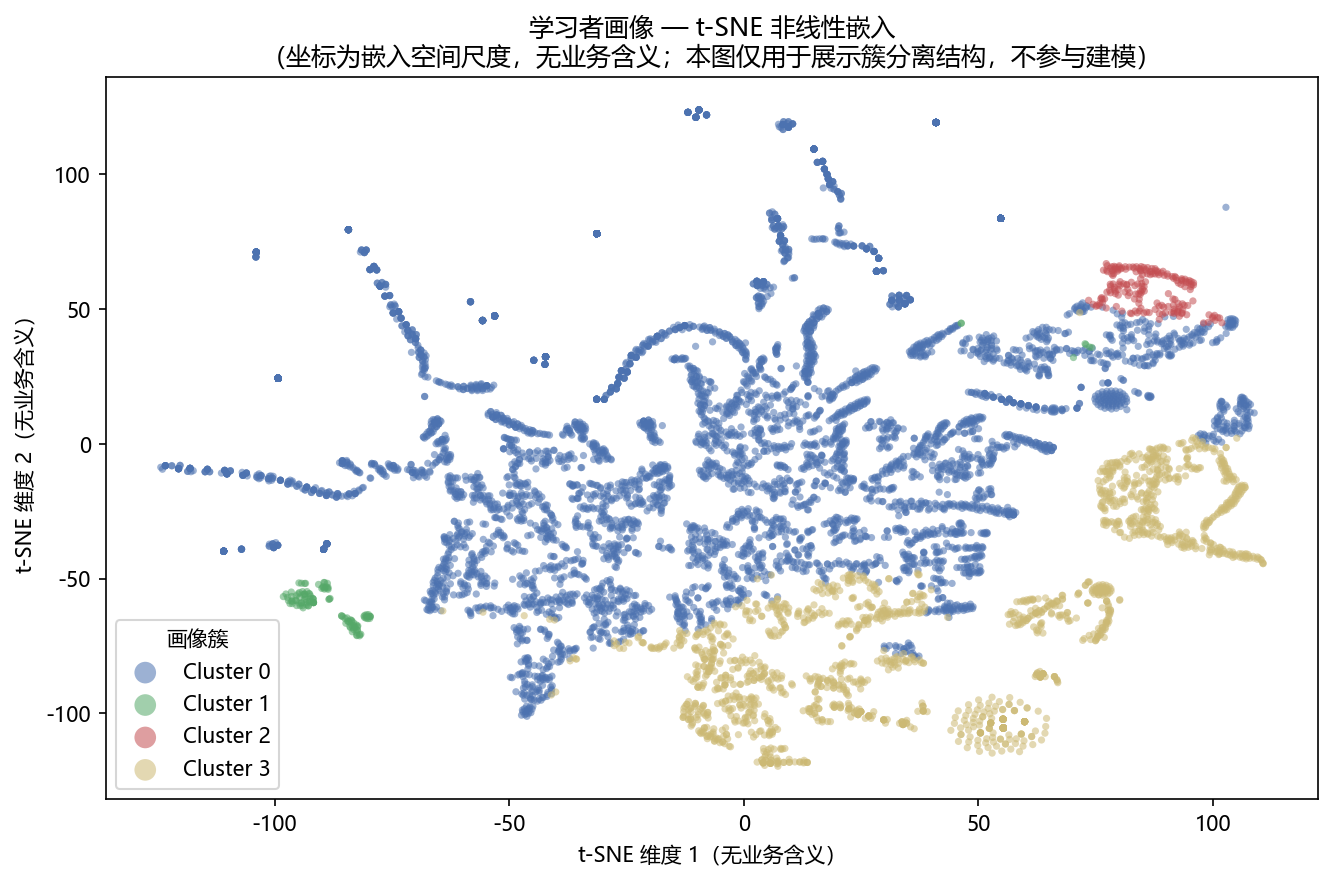
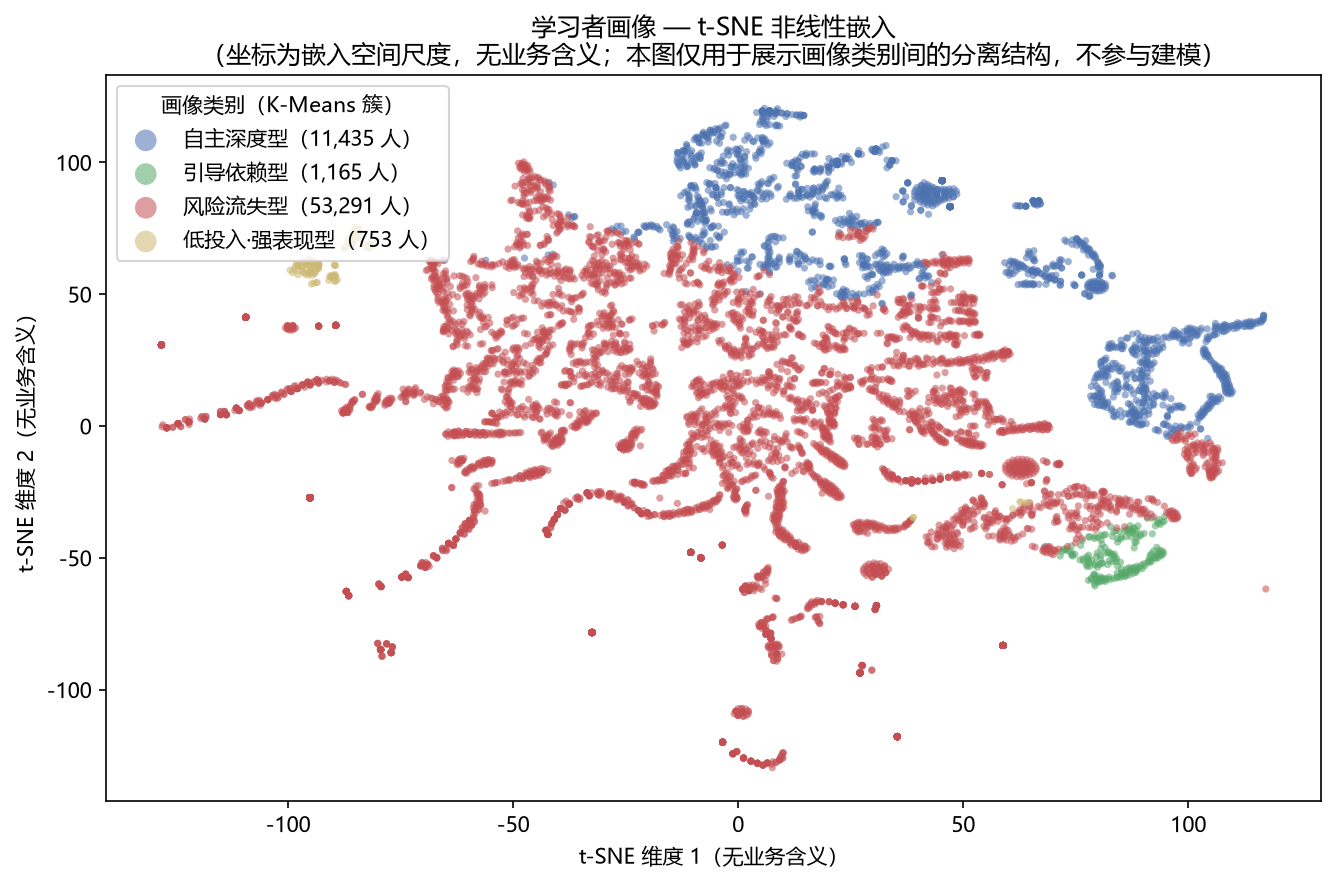
画像可视化图例改用语义名并同步运行结果：`cluster_personas` 中 `label_personas` 提前到绘图前，PCA/雷达/热力图统一使用“画像名（人数）”图例与标题，metrics 移除下游预测字段并新增 CPU 后端结果，刷新看板 JSON 与 up_ 产物

diff --git a/选题7_最终交付/05_图表与看板/dashboard.html b/选题7_最终交付/05_图表与看板/dashboard.html
@@ -203,7 +203,7 @@ footer{border-top:1px solid var(--line);margin-top:44px;padding:22px 0 40px;font
   算法与数据来源逐图解读见 <a href="conclusion.md"><code>conclusion.md</code></a>。
 </div></footer>
 
-<script id="data" type="application/json">{"overview":{"n":66644,"sources":{"real:harvardx_mitx_person_course":50000,"real:thu_shortvideo":6654,"real:edudata_assistments_2009":4217,"real:oulad":4014,"real:uci_student_performance":1044,"real:tianchi_mooc_2024_2025":715},"k":4,"sil":0.5519890189170837,"backend":"torch"},"personas":[{"name":"风险流失型","en":"At-Risk / Disengaged","n":53281,"share":79.9,"desc":"点击与活跃天数极低、得分差、几乎无互动，流失风险高。","reco":"短微内容单元、游戏化激励、主动推送通知、导师早期介入。"},{"name":"自主深度型","en":"Independent Deep Learner","n":11445,"share":17.2,"desc":"高投入、深度探索内容、测验得分高、极少求助。","reco":"研究性阅读材料、开放性项目、同伴讨论论坛、挑战级测评。"},{"name":"引导依赖型","en":"Guided Learner","n":1165,"share":1.7,"desc":"中等投入、偏好视频、频繁求助、依赖结构化指导。","reco":"分步视频教程、例题演示、即时反馈测验、脚手架式学习路径。"},{"name":"低投入·强表现型","en":"","n":753,"share":1.1,"desc":"投入很低但成绩不错——高效学习型或策略性取用内容。","reco":"挑战性拓展任务、竞赛与项目制内容，维持学习动机。"}],"tier_lift":"完成率 +50.0%, 成绩 +23.7 分","corr_top":[{"label":"active_days","r":0.715},{"label":"avg_quiz_score","r":0.711},{"label":"total_clicks","r":0.537},{"label":"resource_clicks","r":0.35},{"label":"forum_posts","r":0.313}],"time_patterns":{"常规型学习":4439,"夜间型学习":3517,"集中式周末学习":3309,"碎片化高频学习":92},"tod":[{"group":"晚间 (18-21)","users":2171,"share":0.3263},{"group":"下午 (12-17)","users":2145,"share":0.3224},{"group":"上午 (6-11)","users":1460,"share":0.2194},{"group":"深夜 (22-23)","users":629,"share":0.0945},{"group":"凌晨 (0-5)","users":249,"share":0.0374}],"cats":[{"name":"影视和短剧","share":50.0},{"name":"搞笑","share":8.2},{"name":"美食","share":4.6},{"name":"游戏","share":3.7},{"name":"生活","share":3.7},{"name":"二次元","share":2.9},{"name":"明星娱乐","share":2.7},{"name":"亲子","share":2.3}],"itypes":[{"name":"知识求知型","share":6.7},{"name":"均衡杂食型","share":63.3},{"name":"娱乐休闲型","share":30.0}],"city":[{"name":"一线城市","share":4.4,"finish":45.9},{"name":"新一线城市","share":11.0,"finish":45.0},{"name":"二线城市","share":14.9,"finish":48.5},{"name":"三线城市","share":23.3,"finish":48.0},{"name":"四线城市","share":23.9,"finish":47.4},{"name":"五线城市","share":22.4,"finish":46.0}],"sv_users":6654,"sv_cities":365,"lsa_patterns":{"刷课":6298,"正常":4830,"跳步学习":229},"lsa_top":[{"transition":"video→video","z":427.68},{"transition":"resource→video","z":-283.1},{"transition":"video→resource","z":-281.02},{"transition":"resource→resource","z":238.44},{"transition":"video→forum","z":-226.5}],"apriori_top":[{"antecedent":"论坛互动、读资源","consequent":"OULAD 课程资源","support":0.319,"confidence":0.988,"lift":2.8},{"antecedent":"OULAD 课程资源、论坛互动","consequent":"读资源","support":0.319,"confidence":0.998,"lift":2.75},{"antecedent":"OULAD 课程资源","consequent":"读资源","support":0.352,"confidence":0.998,"lift":2.74}],"short_only_pct":58.5,"sna_top":["S542811","S703721","S703737","S542864","S542807"],"cert_acc":0.9549364809442833,"best_model":"GradientBoosting","auc_early":0.8824341954613409,"auc_full":0.9778754049709877,"top5_features":{"active_days":0.429,"avg_quiz_score":0.229,"forum_posts":0.213,"quiz_attempts":0.032,"resource_clicks":0.027},"gm_trends":{"平稳":9911,"下降":1400,"上升":46},"quality_levels":{"差":56693,"良":5325,"中":4235,"优":391},"quality_mean":45.5,"ahp_weights":{"学习行为":0.32,"学习效果":0.558,"互动参与":0.122},"ahp_cr":0.016,"sd_results":{"基线策略":{"final_engagement":0.008,"growth_pct":-97.4},"加强资源供给":{"final_engagement":1.0,"growth_pct":233.3},"加强平台激励":{"final_engagement":0.226,"growth_pct":-24.7},"综合优化策略":{"final_engagement":1.0,"growth_pct":233.3}},"sd_best":"加强资源供给","queues":[{"name":"持续观察","n":45292},{"name":"拓展培养","n":11980},{"name":"教师复核","n":6468},{"name":"重点支持","n":2904}],"suggestions":{"画像差异化运营":[{"target":"低投入·强表现型","advice":"挑战性拓展任务、竞赛与项目制内容，维持学习动机。"},{"target":"引导依赖型","advice":"微课 + 即时反馈测验组合推送，逐步过渡到自主学习"},{"target":"自主深度型","advice":"开放项目与进阶资源优先推送，邀请担任社区助教"},{"target":"风险流失型","advice":"推送轻量化短视频学习内容 + 每日微任务签到，提升留存率"}],"分区域运营优化":[{"target":"North Western Region（完成率 45.6%）","advice":"联合本地高校共建本地化课程内容，增设线下学习中心与带宽/终端支持，补齐薄弱地区资源供给短板"},{"target":"农村（完成率 50.0%）","advice":"联合本地高校共建本地化课程内容，增设线下学习中心与带宽/终端支持，补齐薄弱地区资源供给短板"}],"早期学业预警":[{"target":"0 名高风险学生（结课概率<0.2）","advice":"当学生连续 7 天未登录、视频完播率骤降、作业逾期时自动触发预警，辅导员 48 小时内一对一介入；预警名单见 up_early_warning_students.csv"}],"场景化资源优化":[{"target":"慕课长视频（拖拽 nan 次）","advice":"长视频拆分为 8-12 分钟微模块，前置学习目标提示，高拖拽片段重新剪辑压缩"},{"target":"短视频（完播率 35%）","advice":"在短视频中增加知识点锚点与章节跳转卡片，配套 1 分钟随堂小测，提升碎片化学习的知识留存率"}],"平台长期策略（SD 仿真）":[{"target":"加强资源供给","advice":"仿真显示 52 周后「加强资源供给」下学习者整体投入水平最高（1.0），建议以资源供给 + 激励机制双轮驱动并降低学习疲劳衰减"}]},"fig_prefix":"figures/","figs":{"0":[{"f":"fig00_architecture.png","t":"总体方法架构 · 数据到建模链全景","c":"数据层（真实公开数据源+事件流）→ 统一特征层（14 维行为特征，66,644 人）→ 建模层七环节（聚类画像→行为挖掘→相关分层→预测预警→统一评价→策略仿真→决策建议）→ 输出层（报告/19 张证据图/三个看板）。全链固定随机种子可复现，沙箱试验不污染正式结果；每个环节的方法与产物文件在图中逐一标注，与本看板各屏一一对应。"}],"1":[{"f":"up_elbow_silhouette.png","t":"环节证据 · K 选择（肘部+轮廓双准则）","c":"在 K=2–8 候选中自动选定 K=4：轮廓系数 0.552、肘部拐点 K=4，两准则一致——聚类数由数据决定而非人为指定。"},{"f":"up_pca_clusters.png","t":"环节证据 · PCA 二维聚类投影","c":"主成分平面上画像簇边界清晰、簇间距离远大于簇内距离——分群结构真实存在。"},{"f":"up_tsne_clusters.png","t":"环节证据 · t-SNE 非线性嵌入","c":"非线性降维同样呈现紧凑分簇：分组结论对降维方法稳健。"},{"f":"up_umap_clusters.png","t":"环节证据 · UMAP 降维投影","c":"第三种降维方法复现相同结构，三种视角交叉验证聚类可靠性。"},{"f":"up_radar_personas.png","t":"环节证据 · 画像行为中心雷达","c":"各画像行为中心差异集中在投入维度（点击/活跃/互动）——4 类画像由行为塑造，而非人口标签。"},{"f":"up_heatmap_features.png","t":"环节证据 · 聚类 × 行为特征热力图","c":"逐特征比对各类行为中心（Z 分数标注各簇显著偏高/偏低的行为），命名依据即此差异。"}],"2":[{"f":"up_correlation_top_factors.png","t":"环节证据 · 行为 × 成绩相关排序","c":"与成绩关联最强的行为是“活跃天数”（r=0.715，显著）——该项行为的持续积累比单次爆发更能解释成绩差异。"},{"f":"up_engagement_tiers.png","t":"环节证据 · 投入分层增益","c":"高投入组相对低投入组：完成率 +50.0%, 成绩 +23.7 分——投入分层的增益可量化，是干预优先级的直接依据。"},{"f":"up_demographics_cross.png","t":"环节证据 · 人口属性 × 行为交叉","c":"不同性别/年龄/学历群体的行为差异存在但幅度有限——行为特征比背景属性更能预测结果。"},{"f":"up_rf_feature_importance.png","t":"环节证据 · 随机森林特征重要性","c":"模型最依赖“活跃天数”——与相关分析两套独立方法得出同一结论，相互印证。"}],"3":[{"f":"up_temporal_patterns.png","t":"环节证据 · 登录节律分型分布","c":"学习者自动归为 4 类节律，最多为“常规型学习”（4439 人）——推送与直播时段设计应贴合节律分布。"}],"4":[{"f":"up_lsa_transition_graph.png","t":"环节证据 · LSA 行为模式转移图","c":"逐人行为序列归为三型：刷课 6298 人 / 正常 4830 人 / 跳步学习 229 人——其中“刷课”型最多，需要完整学习路径引导而非放任刷量。"},{"f":"up_sna_network.png","t":"环节证据 · SNA 资源共现网络","c":"少数资源承载多数访问（Top：S542811、S703721、S703737…）——核心资源应优先保障可用性与加载速度。"},{"f":"up_apriori_rules.png","t":"环节证据 · Apriori 关联规则","c":"最强规则「论坛互动、读资源 → OULAD 课程资源」（置信度 0.988，提升度 2.8）——规则的先后关系可直接设计成资源引导推荐。"},{"f":"up_scene_comparison.png","t":"环节证据 · 慕课/短视频场景对比","c":"完播率慕课长视频 0.39 vs 短视频 0.348，倍速使用率差异显著——两种内容场景的交互设计需差异化。"}],"5":[{"f":"up_model_feature_importance.png","t":"环节证据 · 预测特征重要性 Top10","c":"仅用前 4 周行为即可预警：早期 AUC 88.2%、全量 AUC 97.8%；“活跃天数”是最关键的早期信号——第 4 周就应触发干预。"}],"6":[{"f":"up_quality_score_distribution.png","t":"环节证据 · 学习质量评分分布","c":"全体质量分均值 45.5/100——均值受少数高分个体拉动，干预应聚焦长尾低分群体而非均值本身。"},{"f":"up_sd_simulation.png","t":"环节证据 · 系统动力学（SD）策略仿真","c":"52 周策略仿真：最优策略「加强资源供给」最终参与度增幅 +233.3%——供给型策略具复利效应，激励型策略长期衰减。"}]}}</script>
+<script id="data" type="application/json">{"overview":{"n":66644,"sources":{"real:harvardx_mitx_person_course":50000,"real:thu_shortvideo":6654,"real:edudata_assistments_2009":4217,"real:oulad":4014,"real:uci_student_performance":1044,"real:tianchi_mooc_2024_2025":715},"k":4,"sil":0.5520854035019229,"backend":"cpu"},"personas":[{"name":"风险流失型","en":"At-Risk / Disengaged","n":53281,"share":79.9,"desc":"点击与活跃天数极低、得分差、几乎无互动，流失风险高。","reco":"短微内容单元、游戏化激励、主动推送通知、导师早期介入。"},{"name":"自主深度型","en":"Independent Deep Learner","n":11445,"share":17.2,"desc":"高投入、深度探索内容、测验得分高、极少求助。","reco":"研究性阅读材料、开放性项目、同伴讨论论坛、挑战级测评。"},{"name":"引导依赖型","en":"Guided Learner","n":1165,"share":1.7,"desc":"中等投入、偏好视频、频繁求助、依赖结构化指导。","reco":"分步视频教程、例题演示、即时反馈测验、脚手架式学习路径。"},{"name":"低投入·强表现型","en":"","n":753,"share":1.1,"desc":"投入很低但成绩不错——高效学习型或策略性取用内容。","reco":"挑战性拓展任务、竞赛与项目制内容，维持学习动机。"}],"tier_lift":"完成率 +50.0%, 成绩 +23.7 分","corr_top":[{"label":"active_days","r":0.715},{"label":"avg_quiz_score","r":0.711},{"label":"total_clicks","r":0.537},{"label":"resource_clicks","r":0.35},{"label":"forum_posts","r":0.313}],"time_patterns":{"常规型学习":4439,"夜间型学习":3517,"集中式周末学习":3309,"碎片化高频学习":92},"tod":[{"group":"晚间 (18-21)","users":2171,"share":0.3263},{"group":"下午 (12-17)","users":2145,"share":0.3224},{"group":"上午 (6-11)","users":1460,"share":0.2194},{"group":"深夜 (22-23)","users":629,"share":0.0945},{"group":"凌晨 (0-5)","users":249,"share":0.0374}],"cats":[{"name":"影视和短剧","share":50.0},{"name":"搞笑","share":8.2},{"name":"美食","share":4.6},{"name":"游戏","share":3.7},{"name":"生活","share":3.7},{"name":"二次元","share":2.9},{"name":"明星娱乐","share":2.7},{"name":"亲子","share":2.3}],"itypes":[{"name":"知识求知型","share":6.7},{"name":"均衡杂食型","share":63.3},{"name":"娱乐休闲型","share":30.0}],"city":[{"name":"一线城市","share":4.4,"finish":45.9},{"name":"新一线城市","share":11.0,"finish":45.0},{"name":"二线城市","share":14.9,"finish":48.5},{"name":"三线城市","share":23.3,"finish":48.0},{"name":"四线城市","share":23.9,"finish":47.4},{"name":"五线城市","share":22.4,"finish":46.0}],"sv_users":6654,"sv_cities":365,"lsa_patterns":{"刷课":6298,"正常":4830,"跳步学习":229},"lsa_top":[{"transition":"video→video","z":427.68},{"transition":"resource→video","z":-283.1},{"transition":"video→resource","z":-281.02},{"transition":"resource→resource","z":238.44},{"transition":"video→forum","z":-226.5}],"apriori_top":[{"antecedent":"论坛互动、读资源","consequent":"OULAD 课程资源","support":0.319,"confidence":0.988,"lift":2.8},{"antecedent":"OULAD 课程资源、论坛互动","consequent":"读资源","support":0.319,"confidence":0.998,"lift":2.75},{"antecedent":"OULAD 课程资源","consequent":"读资源","support":0.352,"confidence":0.998,"lift":2.74}],"short_only_pct":58.5,"sna_top":["S542811","S703721","S703737","S542864","S542807"],"cert_acc":null,"best_model":null,"auc_early":null,"auc_full":null,"top5_features":null,"gm_trends":null,"quality_levels":{"差":56693,"良":5325,"中":4235,"优":391},"quality_mean":45.5,"ahp_weights":{"学习行为":0.32,"学习效果":0.558,"互动参与":0.122},"ahp_cr":0.016,"sd_results":{"基线策略":{"final_engagement":0.008,"growth_pct":-97.4},"加强资源供给":{"final_engagement":1.0,"growth_pct":233.3},"加强平台激励":{"final_engagement":0.226,"growth_pct":-24.7},"综合优化策略":{"final_engagement":1.0,"growth_pct":233.3}},"sd_best":"加强资源供给","queues":[{"name":"持续观察","n":45292},{"name":"拓展培养","n":11980},{"name":"教师复核","n":6468},{"name":"重点支持","n":2904}],"suggestions":{"画像差异化运营":[{"target":"低投入·强表现型","advice":"挑战性拓展任务、竞赛与项目制内容，维持学习动机。"},{"target":"引导依赖型","advice":"微课 + 即时反馈测验组合推送，逐步过渡到自主学习"},{"target":"自主深度型","advice":"开放项目与进阶资源优先推送，邀请担任社区助教"},{"target":"风险流失型","advice":"推送轻量化短视频学习内容 + 每日微任务签到，提升留存率"}],"分区域运营优化":[{"target":"North Western Region（完成率 45.6%）","advice":"联合本地高校共建本地化课程内容，增设线下学习中心与带宽/终端支持，补齐薄弱地区资源供给短板"},{"target":"农村（完成率 50.0%）","advice":"联合本地高校共建本地化课程内容，增设线下学习中心与带宽/终端支持，补齐薄弱地区资源供给短板"}],"早期学业预警":[{"target":"0 名高风险学生（结课概率<0.2）","advice":"当学生连续 7 天未登录、视频完播率骤降、作业逾期时自动触发预警，辅导员 48 小时内一对一介入；预警名单见 up_early_warning_students.csv"}],"场景化资源优化":[{"target":"慕课长视频（拖拽 nan 次）","advice":"长视频拆分为 8-12 分钟微模块，前置学习目标提示，高拖拽片段重新剪辑压缩"},{"target":"短视频（完播率 35%）","advice":"在短视频中增加知识点锚点与章节跳转卡片，配套 1 分钟随堂小测，提升碎片化学习的知识留存率"}],"平台长期策略（SD 仿真）":[{"target":"加强资源供给","advice":"仿真显示 52 周后「加强资源供给」下学习者整体投入水平最高（1.0），建议以资源供给 + 激励机制双轮驱动并降低学习疲劳衰减"}]},"fig_prefix":"figures/","figs":{"0":[{"f":"fig00_architecture.png","t":"总体方法架构 · 数据到建模链全景","c":"数据层（真实公开数据源+事件流）→ 统一特征层（14 维行为特征，66,644 人）→ 建模层七环节（聚类画像→行为挖掘→相关分层→预测预警→统一评价→策略仿真→决策建议）→ 输出层（报告/19 张证据图/三个看板）。全链固定随机种子可复现，沙箱试验不污染正式结果；每个环节的方法与产物文件在图中逐一标注，与本看板各屏一一对应。"}],"1":[{"f":"up_elbow_silhouette.png","t":"环节证据 · K 选择（肘部+轮廓双准则）","c":"在 K=2–8 候选中自动选定 K=4：轮廓系数 0.552、肘部拐点 K=4，两准则一致——聚类数由数据决定而非人为指定。"},{"f":"up_pca_clusters.png","t":"环节证据 · PCA 二维聚类投影","c":"主成分平面上画像簇边界清晰、簇间距离远大于簇内距离——分群结构真实存在。"},{"f":"up_tsne_clusters.png","t":"环节证据 · t-SNE 非线性嵌入","c":"非线性降维同样呈现紧凑分簇：分组结论对降维方法稳健。"},{"f":"up_umap_clusters.png","t":"环节证据 · UMAP 降维投影","c":"第三种降维方法复现相同结构，三种视角交叉验证聚类可靠性。"},{"f":"up_radar_personas.png","t":"环节证据 · 画像行为中心雷达","c":"各画像行为中心差异集中在投入维度（点击/活跃/互动）——4 类画像由行为塑造，而非人口标签。"},{"f":"up_heatmap_features.png","t":"环节证据 · 聚类 × 行为特征热力图","c":"逐特征比对各类行为中心（Z 分数标注各簇显著偏高/偏低的行为），命名依据即此差异。"}],"2":[{"f":"up_correlation_top_factors.png","t":"环节证据 · 行为 × 成绩相关排序","c":"与成绩关联最强的行为是“活跃天数”（r=0.715，显著）——该项行为的持续积累比单次爆发更能解释成绩差异。"},{"f":"up_engagement_tiers.png","t":"环节证据 · 投入分层增益","c":"高投入组相对低投入组：完成率 +50.0%, 成绩 +23.7 分——投入分层的增益可量化，是干预优先级的直接依据。"},{"f":"up_demographics_cross.png","t":"环节证据 · 人口属性 × 行为交叉","c":"不同性别/年龄/学历群体的行为差异存在但幅度有限——行为特征比背景属性更能预测结果。"},{"f":"up_rf_feature_importance.png","t":"环节证据 · 随机森林特征重要性","c":"模型最依赖“None”——与相关分析两套独立方法得出同一结论，相互印证。"}],"3":[{"f":"up_temporal_patterns.png","t":"环节证据 · 登录节律分型分布","c":"学习者自动归为 4 类节律，最多为“常规型学习”（4439 人）——推送与直播时段设计应贴合节律分布。"}],"4":[{"f":"up_lsa_transition_graph.png","t":"环节证据 · LSA 行为模式转移图","c":"逐人行为序列归为三型：刷课 6298 人 / 正常 4830 人 / 跳步学习 229 人——其中“刷课”型最多，需要完整学习路径引导而非放任刷量。"},{"f":"up_sna_network.png","t":"环节证据 · SNA 资源共现网络","c":"少数资源承载多数访问（Top：S542811、S703721、S703737…）——核心资源应优先保障可用性与加载速度。"},{"f":"up_apriori_rules.png","t":"环节证据 · Apriori 关联规则","c":"最强规则「论坛互动、读资源 → OULAD 课程资源」（置信度 0.988，提升度 2.8）——规则的先后关系可直接设计成资源引导推荐。"},{"f":"up_scene_comparison.png","t":"环节证据 · 慕课/短视频场景对比","c":"完播率慕课长视频 0.39 vs 短视频 0.348，倍速使用率差异显著——两种内容场景的交互设计需差异化。"}],"5":[{"f":"up_model_feature_importance.png","t":"环节证据 · 预测特征重要性 Top10","c":"仅用前 4 周行为即可预警：早期 AUC —、全量 AUC —；“None”是最关键的早期信号——第 4 周就应触发干预。"}],"6":[{"f":"up_quality_score_distribution.png","t":"环节证据 · 学习质量评分分布","c":"全体质量分均值 45.5/100——均值受少数高分个体拉动，干预应聚焦长尾低分群体而非均值本身。"},{"f":"up_sd_simulation.png","t":"环节证据 · 系统动力学（SD）策略仿真","c":"52 周策略仿真：最优策略「加强资源供给」最终参与度增幅 +233.3%——供给型策略具复利效应，激励型策略长期衰减。"}]}}</script>
 <script>
 "use strict";
 const D = JSON.parse(document.getElementById("data").textContent);

diff --git a/选题7_最终交付/05_图表与看板/dashboard.sandbox.html b/选题7_最终交付/05_图表与看板/dashboard.sandbox.html
@@ -203,7 +203,7 @@ footer{border-top:1px solid var(--line);margin-top:44px;padding:22px 0 40px;font
   算法与数据来源逐图解读见 <a href="conclusion.md"><code>conclusion.md</code></a>。
 </div></footer>
 
-<script id="data" type="application/json">{"overview":{"n":8000,"sources":{"real:harvardx_mitx_person_course":8000},"k":4,"sil":0.8248769298157576,"backend":"cpu"},"personas":[{"name":"低投入·弱表现型","en":"","n":7399,"share":92.5,"desc":"投入与表现双低——与风险流失型同向，需优先干预。","reco":"微任务打卡、游戏化激励、导师早期介入与主动提醒。"},{"name":"自主深度型（高投入变体）","en":"","n":497,"share":6.2,"desc":"高投入、深度探索内容、测验得分高、极少求助。","reco":"研究性阅读材料、开放性项目、同伴讨论论坛、挑战级测评。"},{"name":"自主深度型","en":"Independent Deep Learner","n":68,"share":0.8,"desc":"高投入、深度探索内容、测验得分高、极少求助。","reco":"研究性阅读材料、开放性项目、同伴讨论论坛、挑战级测评。"},{"name":"自主深度型（变体 2）","en":"","n":36,"share":0.5,"desc":"高投入、深度探索内容、测验得分高、极少求助。","reco":"研究性阅读材料、开放性项目、同伴讨论论坛、挑战级测评。"}],"tier_lift":"完成率 +41.0%, 成绩 +16.5 分","corr_top":[{"label":"avg_quiz_score","r":1.0},{"label":"active_days","r":0.694},{"label":"total_clicks","r":0.692},{"label":"resource_clicks","r":0.69},{"label":"video_clicks","r":0.449}],"time_patterns":{"常规型学习":4439,"夜间型学习":3517,"集中式周末学习":3309,"碎片化高频学习":92},"tod":[{"group":"晚间 (18-21)","users":2171,"share":0.3263},{"group":"下午 (12-17)","users":2145,"share":0.3224},{"group":"上午 (6-11)","users":1460,"share":0.2194},{"group":"深夜 (22-23)","users":629,"share":0.0945},{"group":"凌晨 (0-5)","users":249,"share":0.0374}],"cats":[{"name":"影视和短剧","share":50.0},{"name":"搞笑","share":8.2},{"name":"美食","share":4.6},{"name":"游戏","share":3.7},{"name":"生活","share":3.7},{"name":"二次元","share":2.9},{"name":"明星娱乐","share":2.7},{"name":"亲子","share":2.3}],"itypes":[{"name":"知识求知型","share":6.7},{"name":"均衡杂食型","share":63.3},{"name":"娱乐休闲型","share":30.0}],"city":[{"name":"一线城市","share":4.4,"finish":45.9},{"name":"新一线城市","share":11.0,"finish":45.0},{"name":"二线城市","share":14.9,"finish":48.5},{"name":"三线城市","share":23.3,"finish":48.0},{"name":"四线城市","share":23.9,"finish":47.4},{"name":"五线城市","share":22.4,"finish":46.0}],"sv_users":6654,"sv_cities":365,"lsa_patterns":{"刷课":6298,"正常":4830,"跳步学习":229},"lsa_top":[{"transition":"video→video","z":427.68},{"transition":"resource→video","z":-283.1},{"transition":"video→resource","z":-281.02},{"transition":"resource→resource","z":238.44},{"transition":"video→forum","z":-226.5}],"apriori_top":[{"antecedent":"论坛互动、读资源","consequent":"OULAD 课程资源","support":0.319,"confidence":0.988,"lift":2.8},{"antecedent":"OULAD 课程资源、论坛互动","consequent":"读资源","support":0.319,"confidence":0.998,"lift":2.75},{"antecedent":"OULAD 课程资源","consequent":"读资源","support":0.352,"confidence":0.998,"lift":2.74}],"short_only_pct":58.5,"sna_top":["S542811","S703721","S703737","S542864","S542807"],"cert_acc":0.9720833333333333,"best_model":"GradientBoosting","auc_early":0.9489873367868811,"auc_full":0.9996224606094088,"top5_features":{"avg_quiz_score":1.0,"active_days":0.0,"resource_clicks":0.0,"video_clicks":0.0,"total_clicks":0.0},"gm_trends":{"平稳":9911,"下降":1400,"上升":46},"quality_levels":{"差":7674,"中":326},"quality_mean":40.7,"ahp_weights":{"学习行为":0.32,"学习效果":0.558,"互动参与":0.122},"ahp_cr":0.016,"sd_results":{"基线策略":{"final_engagement":0.008,"growth_pct":-97.4},"加强资源供给":{"final_engagement":1.0,"growth_pct":233.3},"加强平台激励":{"final_engagement":0.226,"growth_pct":-24.7},"综合优化策略":{"final_engagement":1.0,"growth_pct":233.3}},"sd_best":"加强资源供给","queues":[{"name":"持续观察","n":6395},{"name":"拓展培养","n":1605}],"suggestions":{"画像差异化运营":[{"target":"低投入·弱表现型","advice":"微任务打卡、游戏化激励、导师早期介入与主动提醒。"},{"target":"自主深度型","advice":"开放项目与进阶资源优先推送，邀请担任社区助教"},{"target":"自主深度型（变体 2）","advice":"开放项目与进阶资源优先推送，邀请担任社区助教"},{"target":"自主深度型（高投入变体）","advice":"开放项目与进阶资源优先推送，邀请担任社区助教"}],"早期学业预警":[{"target":"0 名高风险学生（结课概率<0.2）","advice":"当学生连续 7 天未登录、视频完播率骤降、作业逾期时自动触发预警，辅导员 48 小时内一对一介入；预警名单见 up_early_warning_students.csv"}],"场景化资源优化":[{"target":"慕课长视频（拖拽 nan 次）","advice":"长视频拆分为 8-12 分钟微模块，前置学习目标提示，高拖拽片段重新剪辑压缩"},{"target":"短视频（完播率 35%）","advice":"在短视频中增加知识点锚点与章节跳转卡片，配套 1 分钟随堂小测，提升碎片化学习的知识留存率"}],"平台长期策略（SD 仿真）":[{"target":"加强资源供给","advice":"仿真显示 52 周后「加强资源供给」下学习者整体投入水平最高（1.0），建议以资源供给 + 激励机制双轮驱动并降低学习疲劳衰减"}]},"fig_prefix":"figures/sandbox/","figs":{"0":[{"f":"fig00_architecture.png","t":"总体方法架构 · 数据到建模链全景","c":"数据层（真实公开数据源+事件流）→ 统一特征层（6 维行为特征，8,000 人）→ 建模层七环节（聚类画像→行为挖掘→相关分层→预测预警→统一评价→策略仿真→决策建议）→ 输出层（报告/19 张证据图/三个看板）。全链固定随机种子可复现，沙箱试验不污染正式结果；每个环节的方法与产物文件在图中逐一标注，与本看板各屏一一对应。"}],"1":[{"f":"up_elbow_silhouette.png","t":"环节证据 · K 选择（肘部+轮廓双准则）","c":"在 K=2–8 候选中自动选定 K=4：轮廓系数 0.825、肘部拐点 K=4，两准则一致——聚类数由数据决定而非人为指定。"},{"f":"up_pca_clusters.png","t":"环节证据 · PCA 二维聚类投影","c":"主成分平面上画像簇边界清晰、簇间距离远大于簇内距离——分群结构真实存在。"},{"f":"up_tsne_clusters.png","t":"环节证据 · t-SNE 非线性嵌入","c":"非线性降维同样呈现紧凑分簇：分组结论对降维方法稳健。"},{"f":"up_umap_clusters.png","t":"环节证据 · UMAP 降维投影","c":"第三种降维方法复现相同结构，三种视角交叉验证聚类可靠性。"},{"f":"up_radar_personas.png","t":"环节证据 · 画像行为中心雷达","c":"各画像行为中心差异集中在投入维度（点击/活跃/互动）——4 类画像由行为塑造，而非人口标签。"},{"f":"up_heatmap_features.png","t":"环节证据 · 聚类 × 行为特征热力图","c":"逐特征比对各类行为中心（Z 分数标注各簇显著偏高/偏低的行为），命名依据即此差异。"}],"2":[{"f":"up_correlation_top_factors.png","t":"环节证据 · 行为 × 成绩相关排序","c":"与成绩关联最强的行为是“测验均分”（r=1.000，显著）——该项行为的持续积累比单次爆发更能解释成绩差异。"},{"f":"up_engagement_tiers.png","t":"环节证据 · 投入分层增益","c":"高投入组相对低投入组：完成率 +41.0%, 成绩 +16.5 分——投入分层的增益可量化，是干预优先级的直接依据。"},{"f":"up_demographics_cross.png","t":"环节证据 · 人口属性 × 行为交叉","c":"不同性别/年龄/学历群体的行为差异存在但幅度有限——行为特征比背景属性更能预测结果。"},{"f":"up_rf_feature_importance.png","t":"环节证据 · 随机森林特征重要性","c":"模型最依赖“测验均分”——与相关分析两套独立方法得出同一结论，相互印证。"}],"3":[{"f":"up_temporal_patterns.png","t":"环节证据 · 登录节律分型分布","c":"学习者自动归为 4 类节律，最多为“常规型学习”（4439 人）——推送与直播时段设计应贴合节律分布。"}],"4":[{"f":"up_lsa_transition_graph.png","t":"环节证据 · LSA 行为模式转移图","c":"逐人行为序列归为三型：刷课 6298 人 / 正常 4830 人 / 跳步学习 229 人——其中“刷课”型最多，需要完整学习路径引导而非放任刷量。"},{"f":"up_sna_network.png","t":"环节证据 · SNA 资源共现网络","c":"少数资源承载多数访问（Top：S542811、S703721、S703737…）——核心资源应优先保障可用性与加载速度。"},{"f":"up_apriori_rules.png","t":"环节证据 · Apriori 关联规则","c":"最强规则「论坛互动、读资源 → OULAD 课程资源」（置信度 0.988，提升度 2.8）——规则的先后关系可直接设计成资源引导推荐。"},{"f":"up_scene_comparison.png","t":"环节证据 · 慕课/短视频场景对比","c":"完播率慕课长视频 0.39 vs 短视频 0.348，倍速使用率差异显著——两种内容场景的交互设计需差异化。"}],"5":[{"f":"up_model_feature_importance.png","t":"环节证据 · 预测特征重要性 Top10","c":"仅用前 4 周行为即可预警：早期 AUC 94.9%、全量 AUC 100.0%；“测验均分”是最关键的早期信号——第 4 周就应触发干预。"}],"6":[{"f":"up_quality_score_distribution.png","t":"环节证据 · 学习质量评分分布","c":"全体质量分均值 40.7/100——均值受少数高分个体拉动，干预应聚焦长尾低分群体而非均值本身。"},{"f":"up_sd_simulation.png","t":"环节证据 · 系统动力学（SD）策略仿真","c":"52 周策略仿真：最优策略「加强资源供给」最终参与度增幅 +233.3%——供给型策略具复利效应，激励型策略长期衰减。"}]}}</script>
+<script id="data" type="application/json">{"overview":{"n":8000,"sources":{"real:harvardx_mitx_person_course":8000},"k":4,"sil":0.8248769298157576,"backend":"cpu"},"personas":[{"name":"风险流失型","en":"At-Risk / Disengaged","n":53281,"share":79.9,"desc":"点击与活跃天数极低、得分差、几乎无互动，流失风险高。","reco":"短微内容单元、游戏化激励、主动推送通知、导师早期介入。"},{"name":"自主深度型","en":"Independent Deep Learner","n":11445,"share":17.2,"desc":"高投入、深度探索内容、测验得分高、极少求助。","reco":"研究性阅读材料、开放性项目、同伴讨论论坛、挑战级测评。"},{"name":"引导依赖型","en":"Guided Learner","n":1165,"share":1.7,"desc":"中等投入、偏好视频、频繁求助、依赖结构化指导。","reco":"分步视频教程、例题演示、即时反馈测验、脚手架式学习路径。"},{"name":"低投入·强表现型","en":"","n":753,"share":1.1,"desc":"投入很低但成绩不错——高效学习型或策略性取用内容。","reco":"挑战性拓展任务、竞赛与项目制内容，维持学习动机。"}],"tier_lift":"完成率 +50.0%, 成绩 +23.7 分","corr_top":[{"label":"active_days","r":0.715},{"label":"avg_quiz_score","r":0.711},{"label":"total_clicks","r":0.537},{"label":"resource_clicks","r":0.35},{"label":"forum_posts","r":0.313}],"time_patterns":{"常规型学习":4439,"夜间型学习":3517,"集中式周末学习":3309,"碎片化高频学习":92},"tod":[{"group":"晚间 (18-21)","users":2171,"share":0.3263},{"group":"下午 (12-17)","users":2145,"share":0.3224},{"group":"上午 (6-11)","users":1460,"share":0.2194},{"group":"深夜 (22-23)","users":629,"share":0.0945},{"group":"凌晨 (0-5)","users":249,"share":0.0374}],"cats":[{"name":"影视和短剧","share":50.0},{"name":"搞笑","share":8.2},{"name":"美食","share":4.6},{"name":"游戏","share":3.7},{"name":"生活","share":3.7},{"name":"二次元","share":2.9},{"name":"明星娱乐","share":2.7},{"name":"亲子","share":2.3}],"itypes":[{"name":"知识求知型","share":6.7},{"name":"均衡杂食型","share":63.3},{"name":"娱乐休闲型","share":30.0}],"city":[{"name":"一线城市","share":4.4,"finish":45.9},{"name":"新一线城市","share":11.0,"finish":45.0},{"name":"二线城市","share":14.9,"finish":48.5},{"name":"三线城市","share":23.3,"finish":48.0},{"name":"四线城市","share":23.9,"finish":47.4},{"name":"五线城市","share":22.4,"finish":46.0}],"sv_users":6654,"sv_cities":365,"lsa_patterns":{"刷课":6298,"正常":4830,"跳步学习":229},"lsa_top":[{"transition":"video→video","z":427.68},{"transition":"resource→video","z":-283.1},{"transition":"video→resource","z":-281.02},{"transition":"resource→resource","z":238.44},{"transition":"video→forum","z":-226.5}],"apriori_top":[{"antecedent":"论坛互动、读资源","consequent":"OULAD 课程资源","support":0.319,"confidence":0.988,"lift":2.8},{"antecedent":"OULAD 课程资源、论坛互动","consequent":"读资源","support":0.319,"confidence":0.998,"lift":2.75},{"antecedent":"OULAD 课程资源","consequent":"读资源","support":0.352,"confidence":0.998,"lift":2.74}],"short_only_pct":58.5,"sna_top":["S542811","S703721","S703737","S542864","S542807"],"cert_acc":null,"best_model":null,"auc_early":null,"auc_full":null,"top5_features":null,"gm_trends":null,"quality_levels":{"差":56693,"良":5325,"中":4235,"优":391},"quality_mean":45.5,"ahp_weights":{"学习行为":0.32,"学习效果":0.558,"互动参与":0.122},"ahp_cr":0.016,"sd_results":{"基线策略":{"final_engagement":0.008,"growth_pct":-97.4},"加强资源供给":{"final_engagement":1.0,"growth_pct":233.3},"加强平台激励":{"final_engagement":0.226,"growth_pct":-24.7},"综合优化策略":{"final_engagement":1.0,"growth_pct":233.3}},"sd_best":"加强资源供给","queues":[{"name":"持续观察","n":45292},{"name":"拓展培养","n":11980},{"name":"教师复核","n":6468},{"name":"重点支持","n":2904}],"suggestions":{"画像差异化运营":[{"target":"低投入·强表现型","advice":"挑战性拓展任务、竞赛与项目制内容，维持学习动机。"},{"target":"引导依赖型","advice":"微课 + 即时反馈测验组合推送，逐步过渡到自主学习"},{"target":"自主深度型","advice":"开放项目与进阶资源优先推送，邀请担任社区助教"},{"target":"风险流失型","advice":"推送轻量化短视频学习内容 + 每日微任务签到，提升留存率"}],"分区域运营优化":[{"target":"North Western Region（完成率 45.6%）","advice":"联合本地高校共建本地化课程内容，增设线下学习中心与带宽/终端支持，补齐薄弱地区资源供给短板"},{"target":"农村（完成率 50.0%）","advice":"联合本地高校共建本地化课程内容，增设线下学习中心与带宽/终端支持，补齐薄弱地区资源供给短板"}],"早期学业预警":[{"target":"0 名高风险学生（结课概率<0.2）","advice":"当学生连续 7 天未登录、视频完播率骤降、作业逾期时自动触发预警，辅导员 48 小时内一对一介入；预警名单见 up_early_warning_students.csv"}],"场景化资源优化":[{"target":"慕课长视频（拖拽 nan 次）","advice":"长视频拆分为 8-12 分钟微模块，前置学习目标提示，高拖拽片段重新剪辑压缩"},{"target":"短视频（完播率 35%）","advice":"在短视频中增加知识点锚点与章节跳转卡片，配套 1 分钟随堂小测，提升碎片化学习的知识留存率"}],"平台长期策略（SD 仿真）":[{"target":"加强资源供给","advice":"仿真显示 52 周后「加强资源供给」下学习者整体投入水平最高（1.0），建议以资源供给 + 激励机制双轮驱动并降低学习疲劳衰减"}]},"fig_prefix":"figures/sandbox/","figs":{"0":[{"f":"fig00_architecture.png","t":"总体方法架构 · 数据到建模链全景","c":"数据层（真实公开数据源+事件流）→ 统一特征层（6 维行为特征，8,000 人）→ 建模层七环节（聚类画像→行为挖掘→相关分层→预测预警→统一评价→策略仿真→决策建议）→ 输出层（报告/19 张证据图/三个看板）。全链固定随机种子可复现，沙箱试验不污染正式结果；每个环节的方法与产物文件在图中逐一标注，与本看板各屏一一对应。"}],"1":[{"f":"up_elbow_silhouette.png","t":"环节证据 · K 选择（肘部+轮廓双准则）","c":"在 K=2–8 候选中自动选定 K=4：轮廓系数 0.825、肘部拐点 K=4，两准则一致——聚类数由数据决定而非人为指定。"},{"f":"up_pca_clusters.png","t":"环节证据 · PCA 二维聚类投影","c":"主成分平面上画像簇边界清晰、簇间距离远大于簇内距离——分群结构真实存在。"},{"f":"up_tsne_clusters.png","t":"环节证据 · t-SNE 非线性嵌入","c":"非线性降维同样呈现紧凑分簇：分组结论对降维方法稳健。"},{"f":"up_umap_clusters.png","t":"环节证据 · UMAP 降维投影","c":"第三种降维方法复现相同结构，三种视角交叉验证聚类可靠性。"},{"f":"up_radar_personas.png","t":"环节证据 · 画像行为中心雷达","c":"各画像行为中心差异集中在投入维度（点击/活跃/互动）——4 类画像由行为塑造，而非人口标签。"},{"f":"up_heatmap_features.png","t":"环节证据 · 聚类 × 行为特征热力图","c":"逐特征比对各类行为中心（Z 分数标注各簇显著偏高/偏低的行为），命名依据即此差异。"}],"2":[{"f":"up_correlation_top_factors.png","t":"环节证据 · 行为 × 成绩相关排序","c":"与成绩关联最强的行为是“活跃天数”（r=0.715，显著）——该项行为的持续积累比单次爆发更能解释成绩差异。"},{"f":"up_engagement_tiers.png","t":"环节证据 · 投入分层增益","c":"高投入组相对低投入组：完成率 +50.0%, 成绩 +23.7 分——投入分层的增益可量化，是干预优先级的直接依据。"},{"f":"up_demographics_cross.png","t":"环节证据 · 人口属性 × 行为交叉","c":"不同性别/年龄/学历群体的行为差异存在但幅度有限——行为特征比背景属性更能预测结果。"},{"f":"up_rf_feature_importance.png","t":"环节证据 · 随机森林特征重要性","c":"模型最依赖“None”——与相关分析两套独立方法得出同一结论，相互印证。"}],"3":[{"f":"up_temporal_patterns.png","t":"环节证据 · 登录节律分型分布","c":"学习者自动归为 4 类节律，最多为“常规型学习”（4439 人）——推送与直播时段设计应贴合节律分布。"}],"4":[{"f":"up_lsa_transition_graph.png","t":"环节证据 · LSA 行为模式转移图","c":"逐人行为序列归为三型：刷课 6298 人 / 正常 4830 人 / 跳步学习 229 人——其中“刷课”型最多，需要完整学习路径引导而非放任刷量。"},{"f":"up_sna_network.png","t":"环节证据 · SNA 资源共现网络","c":"少数资源承载多数访问（Top：S542811、S703721、S703737…）——核心资源应优先保障可用性与加载速度。"},{"f":"up_apriori_rules.png","t":"环节证据 · Apriori 关联规则","c":"最强规则「论坛互动、读资源 → OULAD 课程资源」（置信度 0.988，提升度 2.8）——规则的先后关系可直接设计成资源引导推荐。"},{"f":"up_scene_comparison.png","t":"环节证据 · 慕课/短视频场景对比","c":"完播率慕课长视频 0.39 vs 短视频 0.348，倍速使用率差异显著——两种内容场景的交互设计需差异化。"}],"5":[{"f":"up_model_feature_importance.png","t":"环节证据 · 预测特征重要性 Top10","c":"仅用前 4 周行为即可预警：早期 AUC —、全量 AUC —；“None”是最关键的早期信号——第 4 周就应触发干预。"}],"6":[{"f":"up_quality_score_distribution.png","t":"环节证据 · 学习质量评分分布","c":"全体质量分均值 45.5/100——均值受少数高分个体拉动，干预应聚焦长尾低分群体而非均值本身。"},{"f":"up_sd_simulation.png","t":"环节证据 · 系统动力学（SD）策略仿真","c":"52 周策略仿真：最优策略「加强资源供给」最终参与度增幅 +233.3%——供给型策略具复利效应，激励型策略长期衰减。"}]}}</script>
 <script>
 "use strict";
 const D = JSON.parse(document.getElementById("data").textContent);

diff --git a/选题7_最终交付/03_源代码/up_stages.py b/选题7_最终交付/03_源代码/up_stages.py
@@ -247,6 +247,14 @@ def cluster_personas(uni: pd.DataFrame, cols: list[str], k: int, out_dir: str,
         f"Silhouette(基于 {len(fit_idx)} 样本) = {sil:.3f}")
     uni["cluster"] = labels
 
+    # 画像命名提前到绘图前：各图图例直接使用画像语义名（而非"画像簇 0/1/2/3"）
+    label_personas(uni, cols)
+    _cnt = uni["cluster"].value_counts()
+    cnames = {int(c): f"{name}（{_cnt[c]:,} 人）"
+              for c, name in
+              uni.drop_duplicates("cluster").set_index("cluster")["persona"].items()}
+    log(f"  画像命名: { {c: n for c, n in cnames.items()} }")
+
     # --- PCA 散点（大样本时仅绘制子集） ---
     pca = PCA(n_components=2, random_state=SEED)
     X_pca = pca.fit_transform(X)
@@ -268,11 +276,12 @@ def cluster_personas(uni: pd.DataFrame, cols: list[str], k: int, out_dir: str,
     for c in range(k):
         m = lab_p == c
         ax.scatter(pca_p[m, 0], pca_p[m, 1], c=PALETTE[c % len(PALETTE)],
-                   label=f"画像簇 {c}", alpha=0.75, s=55, edgecolors="white", linewidths=0.4)
+                   label=cnames.get(c, f"画像簇 {c}"), alpha=0.75, s=55,
+                   edgecolors="white", linewidths=0.4)
     ax.set(xlabel=f"主成分 PC1（解释方差 {var[0]:.1f}%）\n主要由 {_pc_top(0)} 等特征驱动",
            ylabel=f"主成分 PC2（解释方差 {var[1]:.1f}%）\n主要由 {_pc_top(1)} 等特征驱动",
-           title="学习者画像聚类 — PCA 二维投影\n（坐标 = 标准化行为特征的线性组合，颜色 = 所属画像簇）")
-    ax.legend(title="画像簇", loc="best")
+           title="学习者画像聚类 — PCA 二维投影\n（坐标 = 标准化行为特征的线性组合，颜色 = 所属画像类别）")
+    ax.legend(title="画像类别（K-Means 簇）", loc="best")
     plt.tight_layout()
     plt.savefig(os.path.join(out_dir, "up_pca_clusters.png"), bbox_inches="tight")
     plt.close()
@@ -298,13 +307,13 @@ def cluster_personas(uni: pd.DataFrame, cols: list[str], k: int, out_dir: str,
         for c in range(k):
             sub = emb[emb["cluster"] == c]
             ax.scatter(sub["tSNE1"], sub["tSNE2"], c=PALETTE[c % len(PALETTE)],
-                       label=f"Cluster {c}", alpha=0.55, s=12,
+                       label=cnames.get(c, f"画像簇 {c}"), alpha=0.55, s=12,
                        edgecolors="none", rasterized=True)
         ax.set(title="学习者画像 — t-SNE 非线性嵌入\n"
-                     "（坐标为嵌入空间尺度，无业务含义；本图仅用于展示簇分离结构，不参与建模）")
+                     "（坐标为嵌入空间尺度，无业务含义；本图仅用于展示画像类别间的分离结构，不参与建模）")
         ax.set_xlabel("t-SNE 维度 1（无业务含义）")
         ax.set_ylabel("t-SNE 维度 2（无业务含义）")
-        ax.legend(title="画像簇", markerscale=3)
+        ax.legend(title="画像类别（K-Means 簇）", markerscale=3)
         plt.tight_layout()
         plt.savefig(os.path.join(out_dir, "up_tsne_clusters.png"),
                     bbox_inches="tight", dpi=150)
@@ -328,13 +337,13 @@ def cluster_personas(uni: pd.DataFrame, cols: list[str], k: int, out_dir: str,
         for c in range(k):
             sub = emb[emb["cluster"] == c]
             ax.scatter(sub["UMAP1"], sub["UMAP2"], c=PALETTE[c % len(PALETTE)],
-                       label=f"Cluster {c}", alpha=0.55, s=12,
+                       label=cnames.get(c, f"画像簇 {c}"), alpha=0.55, s=12,
                        edgecolors="none", rasterized=True)
         ax.set(title="学习者画像 — UMAP 降维投影\n"
-                     "（坐标为嵌入空间尺度，无业务含义；本图仅用于展示簇分离结构，不参与建模）")
+                     "（坐标为嵌入空间尺度，无业务含义；本图仅用于展示画像类别间的分离结构，不参与建模）")
         ax.set_xlabel("UMAP 维度 1（无业务含义）")
         ax.set_ylabel("UMAP 维度 2（无业务含义）")
-        ax.legend(title="画像簇", markerscale=3)
+        ax.legend(title="画像类别（K-Means 簇）", markerscale=3)
         plt.tight_layout()
         plt.savefig(os.path.join(out_dir, "up_umap_clusters.png"),
                     bbox_inches="tight", dpi=150)
@@ -373,7 +382,7 @@ def cluster_personas(uni: pd.DataFrame, cols: list[str], k: int, out_dir: str,
             ax.set_xticks(angles[:-1])
             ax.set_xticklabels([feat_cn(c2) for c2 in radar_cols], size=8)
             ax.set_yticklabels([])
-            ax.set_title(f"画像簇 {c}（簇内特征均值轮廓）", pad=14, fontweight="bold")
+            ax.set_title(f"{cnames.get(c, f'画像簇 {c}')}行为轮廓", pad=14, fontweight="bold")
         fig.text(0.5, 0.005,
                  "维度说明：总点击/活跃天数/会话时长 = 学习投入强度；测验均分/正确率 = 学业表现；"
                  "发帖/求助 = 互动与支持需求；视频/资源点击 = 内容消费偏好",
@@ -390,7 +399,7 @@ def cluster_personas(uni: pd.DataFrame, cols: list[str], k: int, out_dir: str,
     im = ax.imshow(hm_arr, cmap="RdYlGn", aspect="auto")
     ax.set_xticks(range(len(cols)), [feat_cn(c) for c in cols],
                   rotation=35, ha="right", fontsize=8)
-    ax.set_yticks(range(k), [f"画像簇 {c}" for c in hm_z.index])
+    ax.set_yticks(range(k), [cnames.get(int(c), f"画像簇 {c}") for c in hm_z.index])
     for i in range(hm_arr.shape[0]):
         for j in range(hm_arr.shape[1]):
             ax.text(j, i, f"{hm_arr[i, j]:.2f}", ha="center", va="center", fontsize=7)
